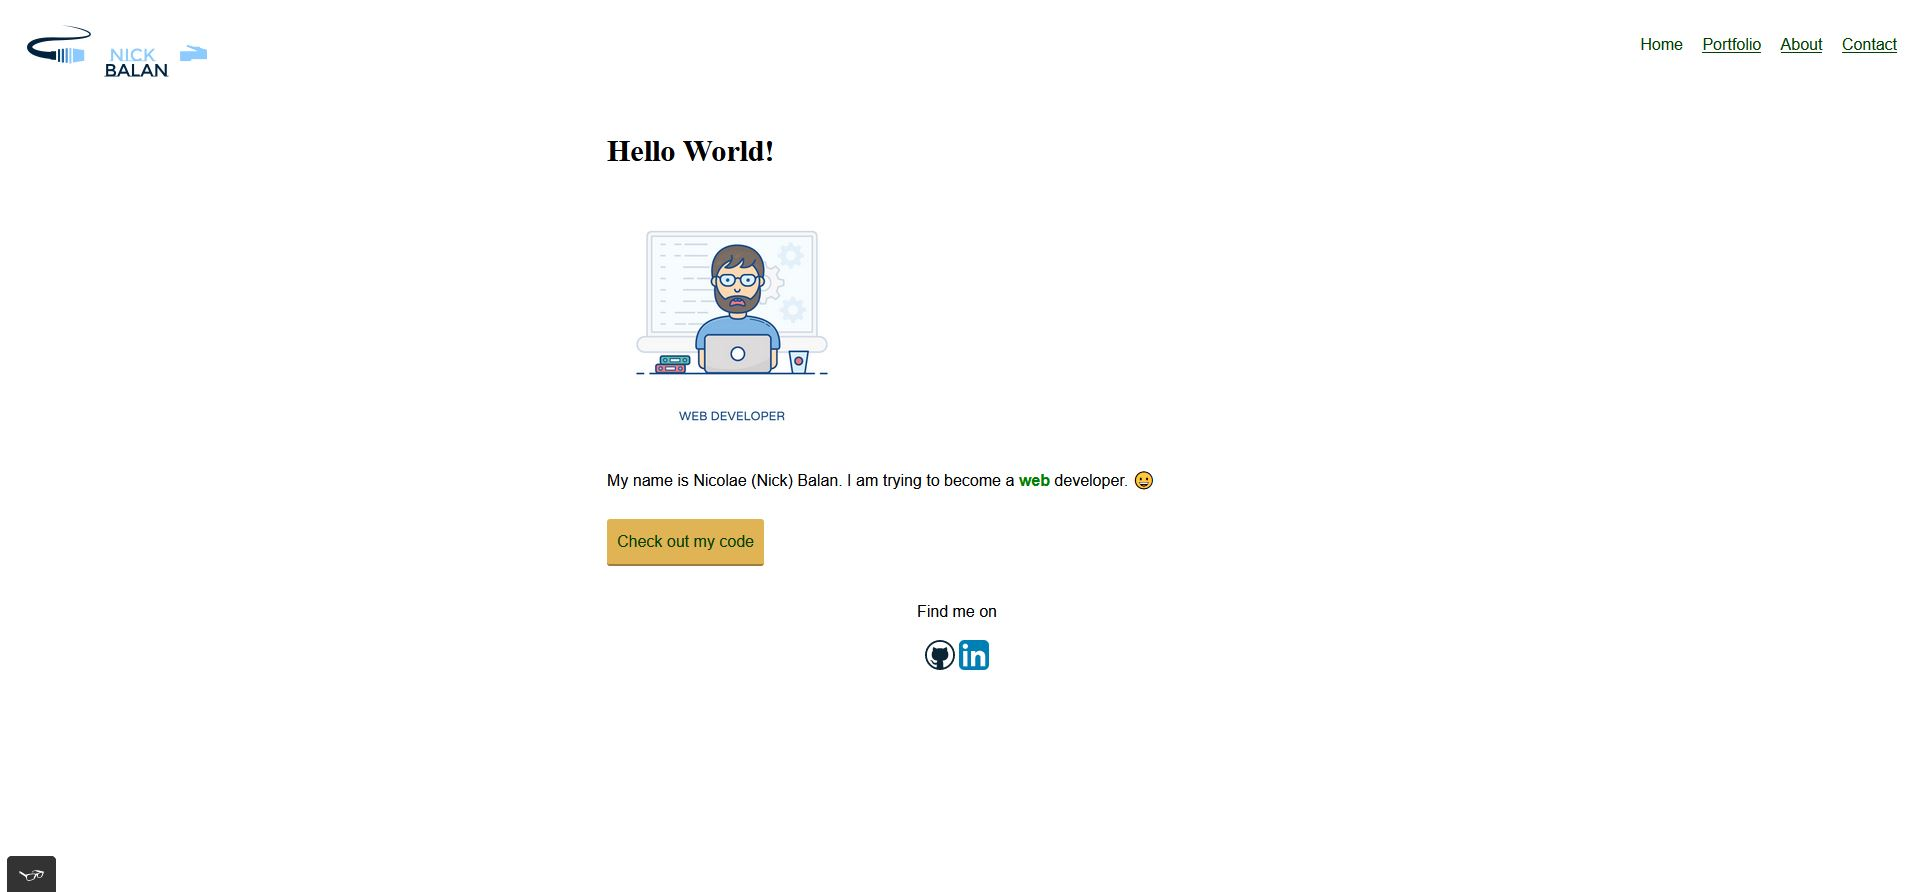
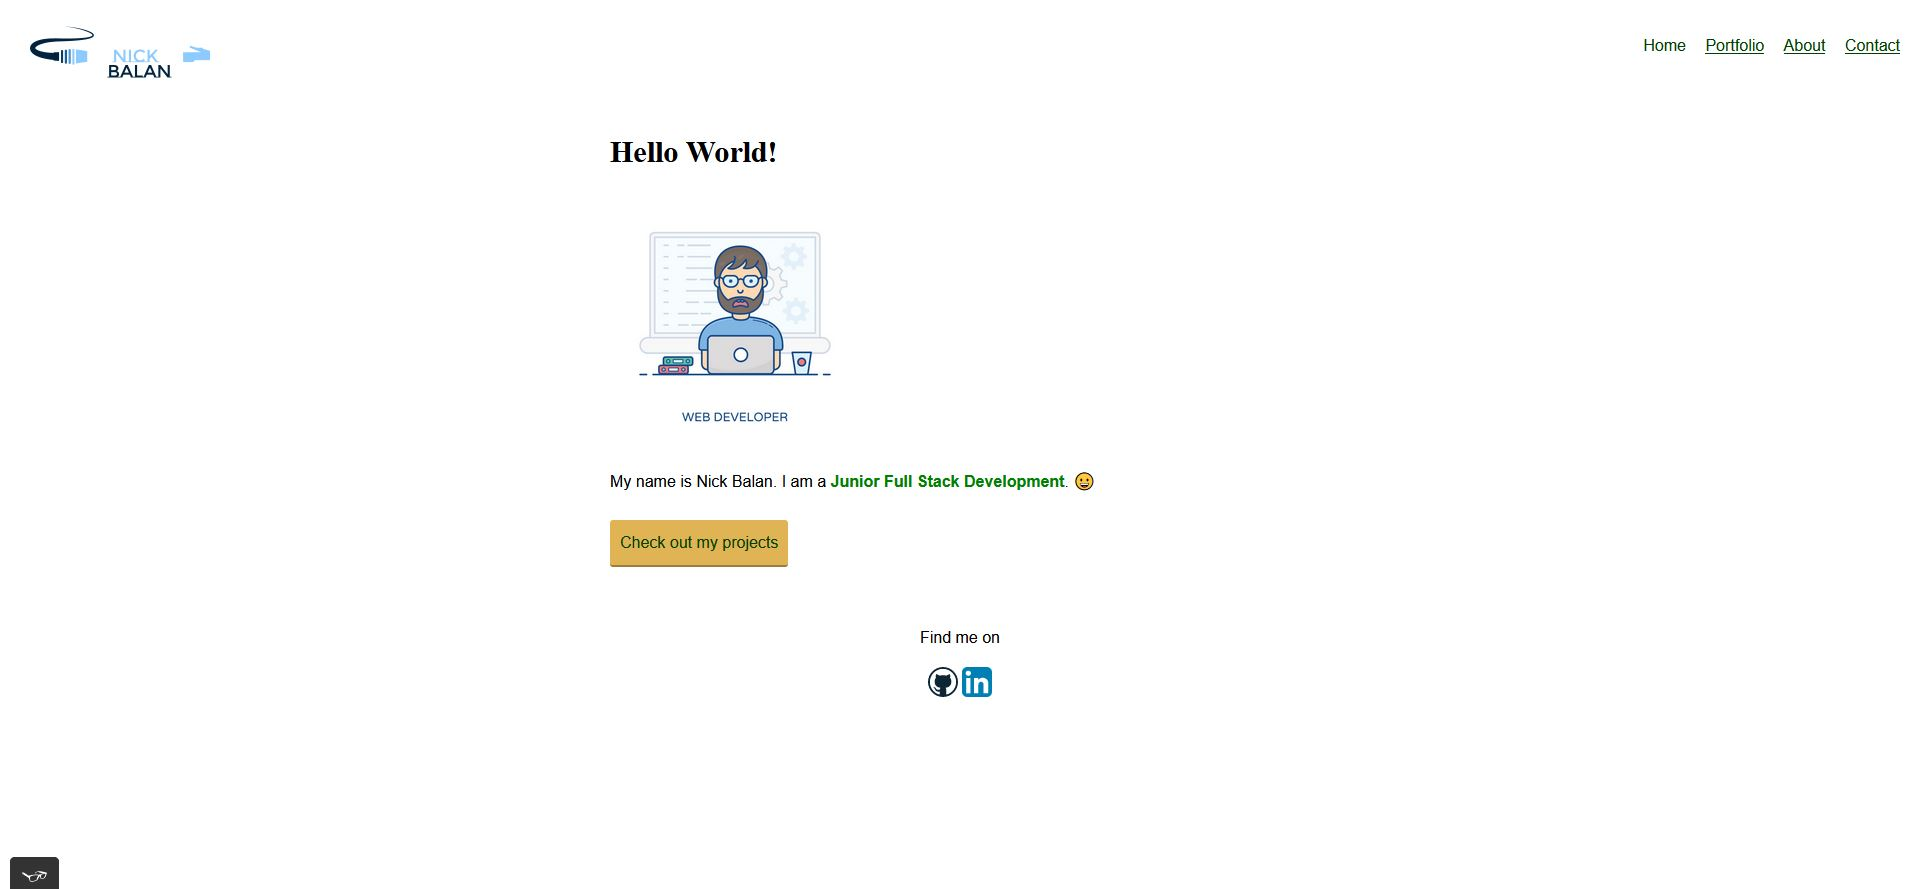
Update ReadMe V3

diff --git a/index.html b/index.html
@@ -56,8 +56,7 @@
 		<img src="img/25996483_x950.jpg" class="profile__portrait" alt="A photograph of me">
 		<!-- Short Intro -->
 		<p>
-			My name is Nick Balan. </br> 
-			I am a <span style="color: green; font-weight: bold">Junior Full Stack Development</span>.
+			My name is Nick Balan. I am a <span style="color: green; font-weight: bold">Junior Full Stack Development</span>.
 			<!-- Inserting Emoji Smiley -->
 			&#128512;
 			<br>

diff --git a/README.md b/README.md
@@ -35,4 +35,5 @@ Check out the [Simple Portfolio website](https://nickbalan.github.io/portfolio-w
 ## Simple Portfolio website screenshot
 
 ![Livescreen](img/Livescreen/Portfolio_website_1.JPG)
+![Livescreen](img/Livescreen/Portfolio_website_2.JPG)
 
